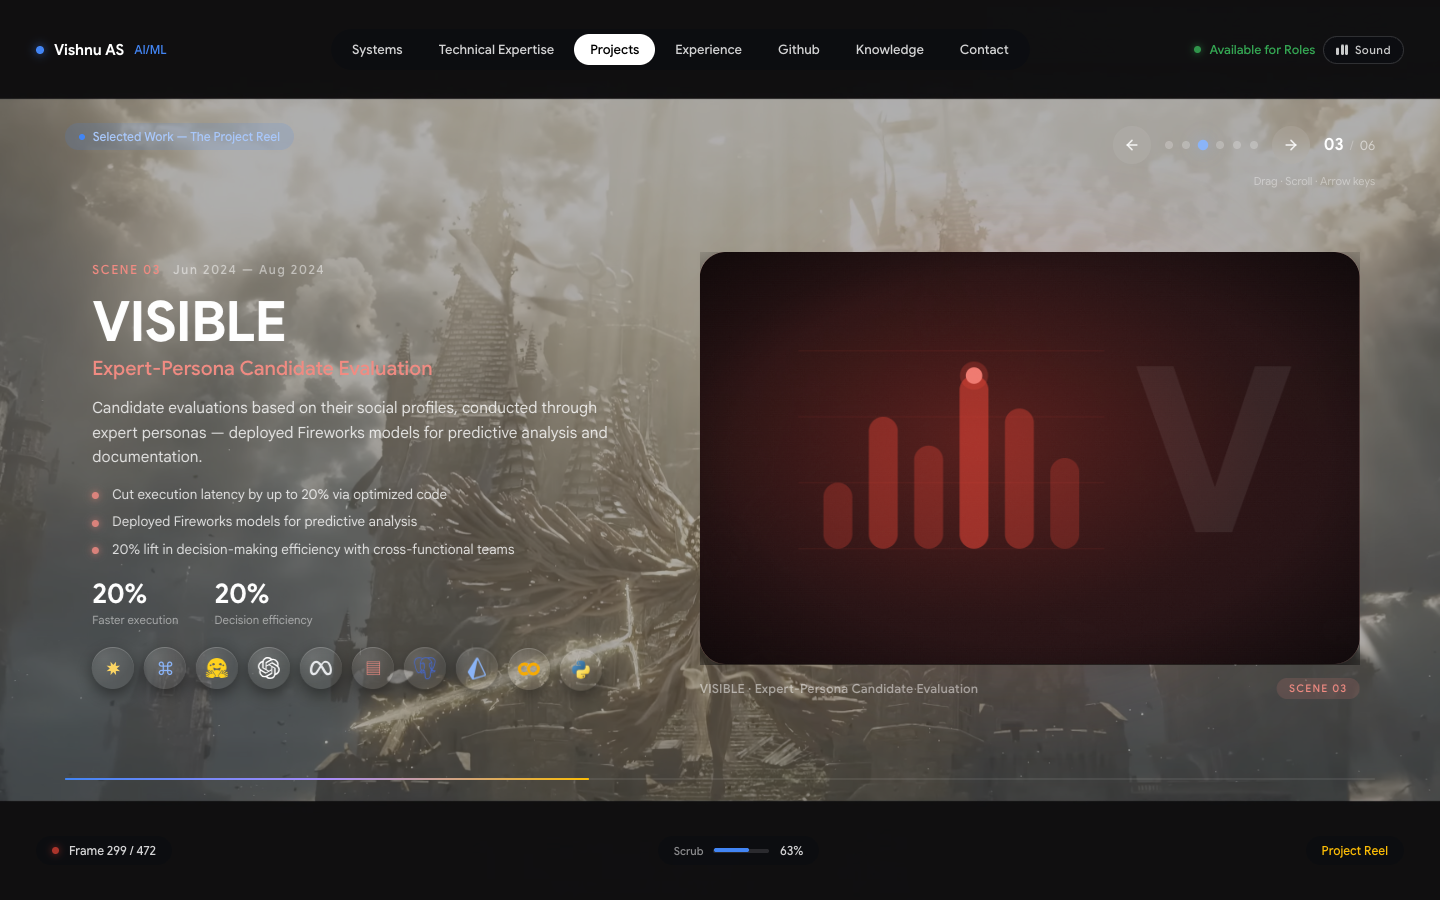
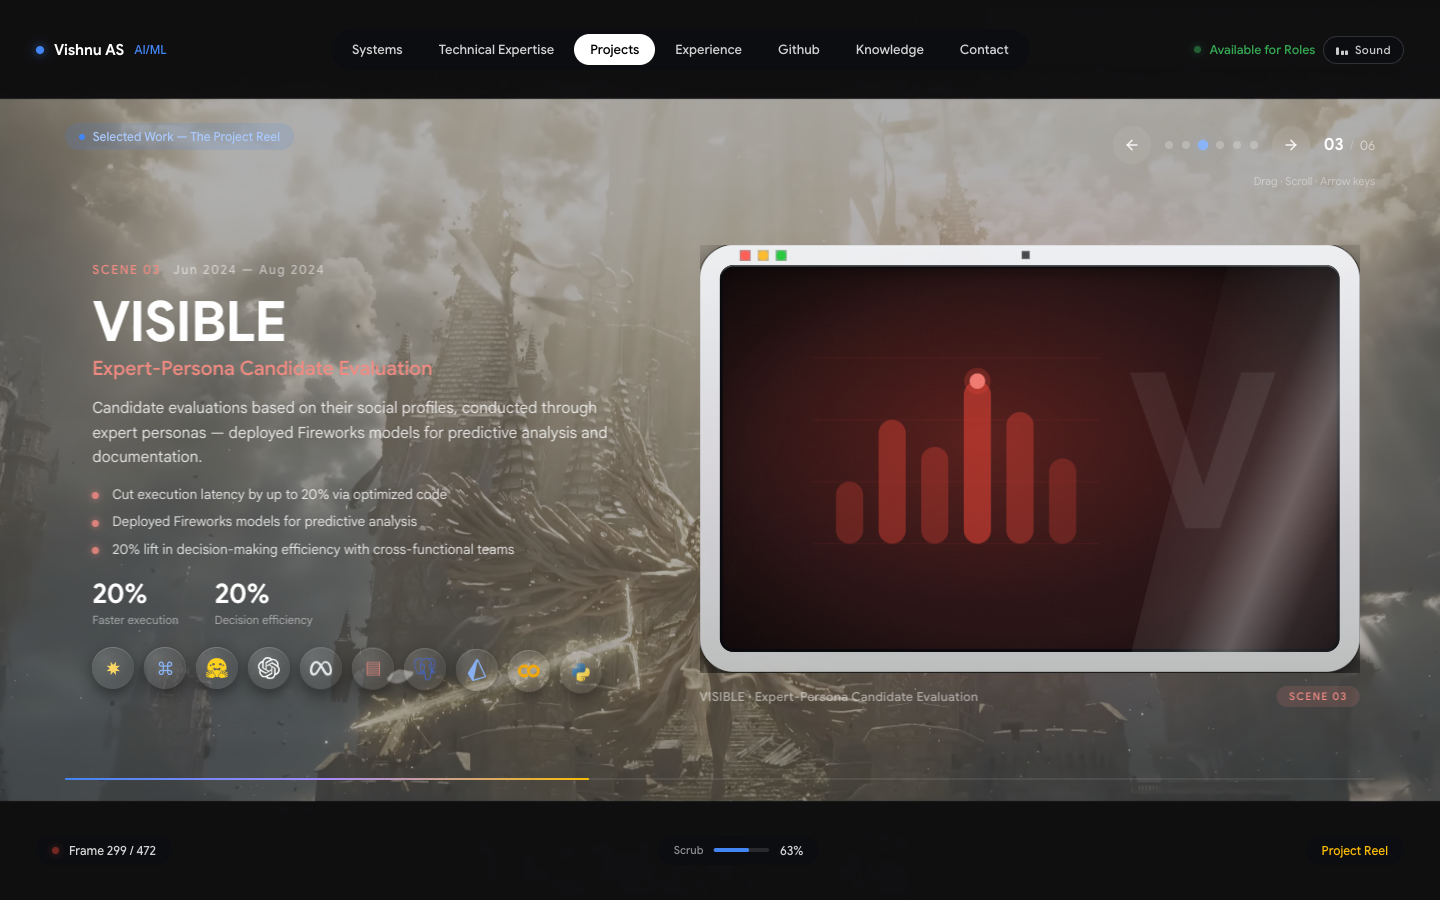
Ipad frame styling for projects

Changed region(s): [[0.4688, 0.2489, 0.9688, 0.8089], [0.5625, 0.4044, 0.75, 0.6222], [0.3438, 0.7156, 0.375, 0.7778]]

diff --git a/style.css b/style.css
@@ -4348,18 +4348,71 @@ html.js body.is-ready .hero-scroll-cue {
   will-change: transform;
 }
 
-/* The glass: hue-tinted hairline frame + inset top highlight + deep seat
-   shadow. Owns overflow so the reveal wipe, Ken Burns zoom and specular
-   sweep all clip to the rounded corners. */
+/* The device: a real silver iPad - top-lit aluminium shell drawn as a
+   border-box gradient behind a transparent border, macOS traffic lights +
+   FaceTime camera centred in the top band, black display-glass edge seated
+   over the photo, machined rim + deep seat shadow. Inner screen radius =
+   --frame-r minus --bezel, and because overflow clips at the padding edge,
+   the band paints over the Ken Burns zoom so the bezel can never be eaten.
+   Owns overflow so the reveal wipe, zoom and sweep clip to the glass. */
 .still-frame {
+  --bezel: clamp(14px, 1.5vw, 20px);
+  --frame-r: 34px;
+  --tl-d: clamp(9px, calc(var(--bezel) * 0.55), 12px);
+  --tl-gap: calc(var(--tl-d) + 7px);
+  --tl-x: calc(var(--frame-r) + 6px);
+  --cam-d: calc(var(--bezel) * 0.4);
   position: relative;
   overflow: hidden;
-  border-radius: 26px;
+  border: var(--bezel) solid transparent;
+  border-radius: var(--frame-r);
+  background-origin: border-box;
+  background-repeat: no-repeat;
+  background-position:
+    var(--tl-x) calc(var(--bezel) / 2 - var(--tl-d) / 2),
+    calc(var(--tl-x) + var(--tl-gap)) calc(var(--bezel) / 2 - var(--tl-d) / 2),
+    calc(var(--tl-x) + var(--tl-gap) * 2) calc(var(--bezel) / 2 - var(--tl-d) / 2),
+    calc(50% - var(--cam-d) / 2) calc(var(--bezel) / 2 - var(--cam-d) / 2),
+    0 0;
+  background-size:
+    var(--tl-d) var(--tl-d),
+    var(--tl-d) var(--tl-d),
+    var(--tl-d) var(--tl-d),
+    var(--cam-d) var(--cam-d),
+    100% 100%;
+  background-image:
+    /* traffic lights - close / minimise / zoom */
+    radial-gradient(circle closest-side, #ff5f57 calc(100% - 1.5px), rgba(140, 24, 18, 0.5) 100%),
+    radial-gradient(circle closest-side, #febc2e calc(100% - 1.5px), rgba(150, 104, 12, 0.45) 100%),
+    radial-gradient(circle closest-side, #28c940 calc(100% - 1.5px), rgba(12, 112, 32, 0.5) 100%),
+    /* FaceTime camera */
+    radial-gradient(circle closest-side, #46484d calc(100% - 2px), rgba(0, 0, 0, 0.65) 100%),
+    /* aluminium shell - lit from above (CSSDevices silver palette) */
+    linear-gradient(180deg, #eeeff2 0%, #e0e1e5 28%, #d6d5da 55%, #c9cacd 80%, #bdbfbe 100%);
   box-shadow:
-    inset 0 0 0 1px color-mix(in srgb, var(--sc-hue, #8ab4f8) 38%, transparent),
-    inset 0 1px 0 rgba(255, 255, 255, 0.14),
+    /* machined outer rim */
+    0 0 0 1px rgba(0, 0, 0, 0.55),
     0 34px 90px rgba(0, 0, 0, 0.62),
     0 10px 28px rgba(0, 0, 0, 0.5);
+}
+
+/* Screen-glass overlay: the display edge + seating shade must sit ON TOP of
+   the image (inset shadows on .still-frame would paint beneath it). Radius
+   matches the padding box exactly: --frame-r minus --bezel. */
+.still-frame::before {
+  content: '';
+  position: absolute;
+  inset: 0;
+  border-radius: calc(var(--frame-r) - var(--bezel));
+  box-shadow:
+    /* top specular catch on the glass (painted above the black edge) */
+    inset 0 1.5px 0 0 rgba(255, 255, 255, 0.3),
+    /* display glass edge under the aluminium */
+    inset 0 0 0 3px #08090d,
+    /* screen seating shade - overhead gallery light */
+    inset 0 12px 22px -14px rgba(0, 0, 0, 0.9);
+  pointer-events: none;
+  z-index: 1;
 }
 
 /* Specular sweep — rests off-frame left, crosses once per activation. */
@@ -4418,11 +4471,12 @@ html.js body.is-ready .hero-scroll-cue {
   transition: opacity 0.5s var(--ease-google) 0.55s, transform 0.6s var(--ease-google) 0.55s;
 }
 
-/* Graceful fallback when a project has no photo AND no poster yet */
+/* Graceful fallback when a project has no photo AND no poster yet.
+   Clipped by .still-frame — inner radius follows the bezel vars. */
 .still-fallback {
   width: 100%;
   aspect-ratio: 16 / 10;
-  border-radius: 26px;
+  border-radius: calc(var(--frame-r, 30px) - var(--bezel, 10px));
   display: grid;
   place-items: center;
   font-family: var(--font-head);
@@ -4568,7 +4622,8 @@ html.js body.is-ready .hero-scroll-cue {
   }
 
   .still-frame {
-    border-radius: 20px;
+    --bezel: 14px;
+    --frame-r: 22px;
   }
 
   .still-img {
